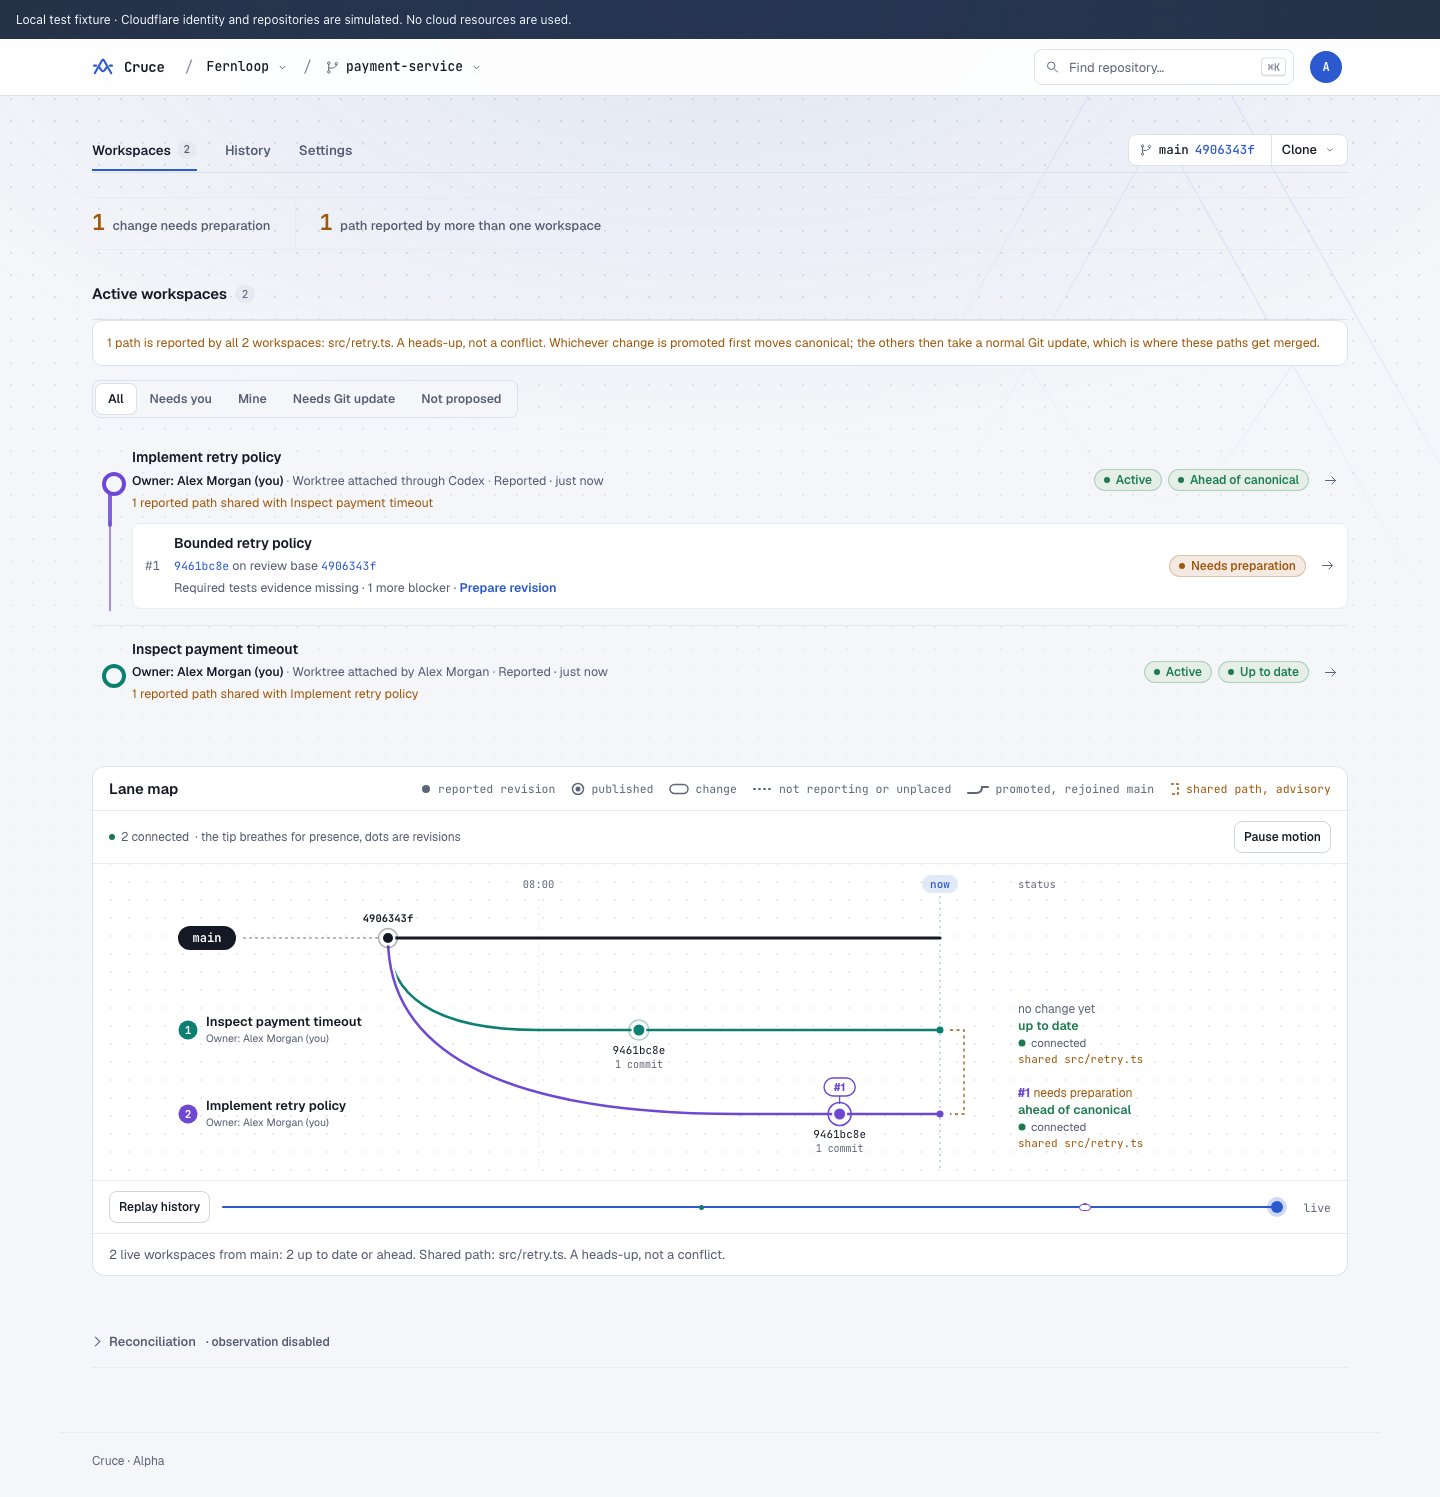
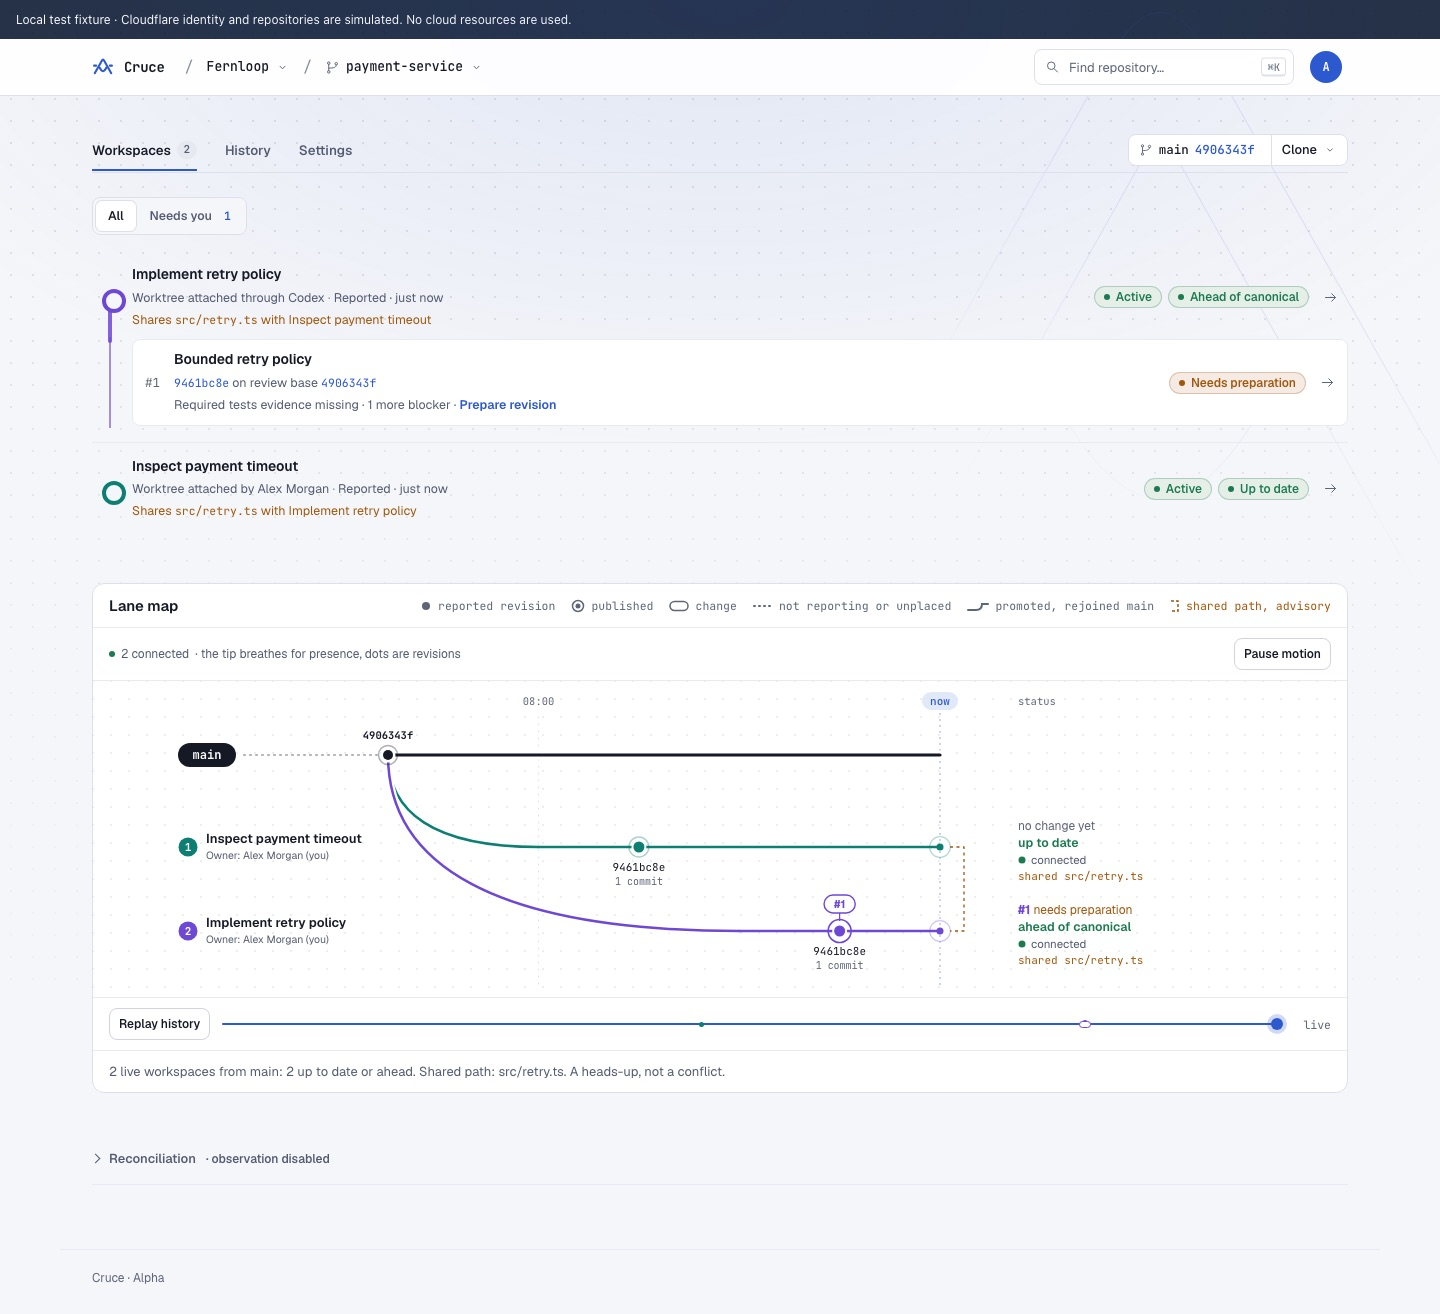
docs: recapture the walkthrough for the review page and review notes

diff --git a/docs/local-demo.md b/docs/local-demo.md
@@ -27,21 +27,27 @@ Open the loopback URL the server prints. Set `PORT` to choose a fixed port. Rest
 
 Click **payment-service**. The header breadcrumb names the repository, and the bar below it holds the tabs and canonical `main` at its exact revision, with **Clone**. Below that, the **Needs you** filter carries its count, and each workspace row names the path it shares with the other: "Shares src/retry.ts with Inspect payment timeout". The **Workspaces** tab lists each workspace once with its open changes under it; **Bounded retry policy #1** hangs off **Implement retry policy**, marked **Needs preparation**, with its exact revision on its review base and "Required tests evidence missing · 1 more blocker". The lane map follows the list.
 
-![Repository Workspaces tab: the attention bar, two workspaces with Bounded retry policy #1 nested under Implement retry policy, and the lane map below](images/local-demo/repository.jpg)
+![Repository Workspaces tab: the Needs you filter with its count, two workspaces naming the path they share, Bounded retry policy #1 nested under Implement retry policy, and the lane map below](images/local-demo/repository.jpg)
 
 ## 3. Review and promote the exact revision
 
-Open **Bounded retry policy #1**. The review is a checklist for this exact revision:
+Open **Bounded retry policy #1**. The page leads with one next step and one button: "Tests not recorded for 9461bc8e." with **Record result**. Beside it, the review checklist runs as small steps from **On main** through **Tests** and **Approval** to **Promote**; click any step to read its details.
 
-1. **Built on the current canonical revision**: already checked.
-2. **Required tests evidence missing**: Codex stored a test report, but no tests result was recorded for this revision. Normally the owner's tools report one and a maintainer attests it; here, as a maintainer who checked the tests, click **Record checked tests pass**. The note is optional.
-3. **Approve this exact revision**: click **Approve**. Approval covers `9461bc8e` only; a new revision needs a new review.
+1. Click **Record result**. Codex stored a test report, but no tests result was recorded for this exact revision. Normally the owner's tools report one and a maintainer attests it; here, as a maintainer who checked the tests, click **Record checked tests pass**. The step closes and the page moves on.
+2. The next step reads "Ready for approval of 9461bc8e." Click **Approve**. Approval covers `9461bc8e` only; a new revision needs a new review.
+3. With every step done, the button becomes **Promote to main**. The **Promote** step explains what it does: move canonical `main` from `4906343f` to `9461bc8e` with a non-forced Git update.
 
-When every item is checked, the change shows **Ready to promote** and **Promote to main** explains exactly what it does: move canonical `main` from `4906343f` to `9461bc8e` with a non-forced Git update. Raising a concern, recording a failure or closing the change asks for a reason. The files changed and the evidence (including Codex's stored test report) are below the checklist.
+Below the steps, the changed files read as one page: line numbers, changed words highlighted, unchanged lines a click away, and supporting files such as tests and docs folded. Hover any line and press **+** to leave a concern or a comment on it. A concern blocks promotion until a maintainer resolves it with a reason. Recording a failure or closing the change also asks for a reason.
 
 Promote it. The change becomes **Promoted**, the header shows the new canonical revision and names the workspace it left behind, and on Workspaces the **Needs Git update** filter counts it: the other concurrent workspace started from the old baseline and has canonical changes to merge with Git before it publishes.
 
-![Review checklist with Promote to main, the diff and evidence](images/local-demo/review.jpg)
+![Change review leading with Record result, the checklist steps and the changed file](images/local-demo/review.jpg)
+
+### Review notes your agent answers
+
+Review notes follow a change across revisions. To see one answered, seed the example on a fresh fixture: `curl -X POST <fixture URL>/__fixture/scenario -H 'content-type: application/json' -d '{"name":"review"}'`, then open **Bounded retry policy with backoff #2**. Sam left a concern on `src/retry.ts` in #1; Alex's agent read it through Cruce, published #2 with backoff and replied citing that revision. The page leads with **Check the answers**, opens on what changed since #1 was reviewed, and shows each note beside its line. **Resolve** asks for a reason; an agent can reply but never resolve. A second concern on `src/backoff.ts` still waits for the owner, and the **Concerns** step offers **Hand to your agent** with the request to give your own agent.
+
+![Change #2 with the agent's cited answer beside its line, a second open concern and supporting files folded](images/local-demo/review-notes.jpg)
 
 ## 4. Follow concurrent workspaces
 
@@ -71,4 +77,4 @@ Cruce's coordination boundary ends at reviewed reconciliation into canonical Git
 
 ## Refresh these screenshots
 
-Keep this walkthrough and its images together when visible console behaviour changes. `PORT=5173 pnpm test:browser` writes fresh captures to the ignored `dist/ui-checks/`; the fixed port keeps the server URL in captured commands stable. Convert the matching captures (`home-1440`, `repository-1440`, `review`, `workspace-1440`, `revision-1440`, `setup-1440`, `account`) into the JPEG files under `docs/images/local-demo/` (`home`, `repository`, `review`, `workspace`, `history`, `connect`, `account`), for example with `sips -s format jpeg`. Use only sample identities, never capture credentials or a live account, and check every image and relative link.
+Keep this walkthrough and its images together when visible console behaviour changes. `PORT=5173 pnpm test:browser` writes fresh captures to the ignored `dist/ui-checks/`; the fixed port keeps the server URL in captured commands stable. Convert the matching captures (`home-1440`, `repository-1440`, `review`, `review-notes`, `workspace-1440`, `revision-1440`, `setup-1440`, `account`) into the JPEG files under `docs/images/local-demo/` (`home`, `repository`, `review`, `review-notes`, `workspace`, `history`, `connect`, `account`), for example with `sips -s format jpeg`. Use only sample identities, never capture credentials or a live account, and check every image and relative link.
